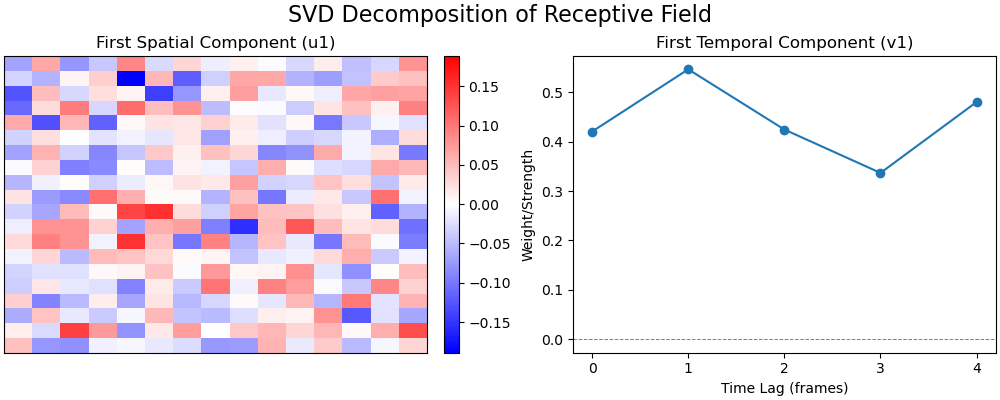
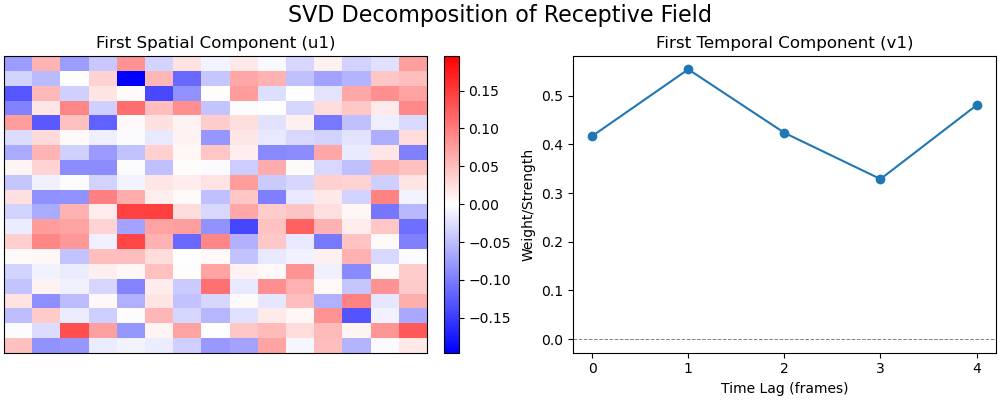
Fix up the task-4, fitting, using pyglmnet

diff --git a/notebooks/lab5.py b/notebooks/lab5.py
@@ -696,7 +696,7 @@ def fit_rf_for_lag(
         print(f"An error occurred during optimization for lag {lag_value}: {e}")
         return np.zeros(num_pixels)
 # fit for each delay
-
+dt_real = np.median(np.diff(trigger))
 w_hat = np.zeros((300, 5))  # Initialize the array to store the receptive fields
 for i, lag in enumerate(delta):
     w_hat[:, i] = fit_rf_for_lag(
@@ -704,7 +704,7 @@ for i, lag in enumerate(delta):
         full_stimulus_matrix=s,
         full_counts_vector=spike_counts_per_frame,
         num_pixels=300,  # 20 * 15 = 300
-        dt_param=0.5,  # 500 ms
+        dt_param=dt_real,  # 500 ms
         R_param=50,  # Rate parameter
         initial_w_guess=None,  # Use default small random guess
         optimizer_method='L-BFGS-B'  # Default method
@@ -831,7 +831,7 @@ ax["Temporal"].set_xlabel("Time Lag (frames)")
 ax["Temporal"].set_ylabel("Weight/Strength")
 ax["Temporal"].axhline(0, color='grey', linestyle='--', linewidth=0.7) # Add a zero line
 ax["Temporal"].set_xticks(time_lags_for_plot) # Ensure all lags are shown as ticks
-# add plot
+# Add plot
 plt.suptitle("SVD Decomposition of Receptive Field", fontsize=16)
 plt.savefig("../images/svd_rf_components.png")
 plt.show()
@@ -839,46 +839,162 @@ plt.show()
 # %% [markdown]
 # # Task 4: Regularized receptive field
 # 
-# As you can see, maximum likelihood estimation of linear receptive fields can be quite noisy, if little data is available. 
+# As you can see, maximum likelihood estimation of 
+# linear receptive fields can be quite noisy, if little data is 
+# available. 
 # 
-# To improve on this, one can regularize the receptive field vector and a term to the cost function
+# To improve on this, one can regularize the 
+# receptive field vector and a term to the cost function
 # 
 # 
 # $$
 # C(w) = L(w) + \alpha ||w||_p^2
 # $$
 # 
-# Here, the $p$ indicates which norm of $w$ is used: for $p=2$, this is shrinks all coefficient equally to zero; for $p=1$, it favors sparse solutions, a penality also known as lasso. Because the 1-norm is not smooth at zero, it is not as straightforward to implement "by hand". 
+# Here, the $p$ indicates which norm of $w$ is used: for $p=2$, this 
+# is shrinks all coefficient equally to zero; for $p=1$, it favors 
+# sparse solutions, a penality also known as lasso. 
+# Because the 1-norm is not smooth at zero, it is not as 
+# straightforward to implement "by hand". 
 # 
-# Use a toolbox with an implementation of the lasso-penalization and fit the receptive field. Possibly, you will have to try different values of the regularization parameter $\alpha$. Plot your estimates from above and the lasso-estimates. How do they differ? What happens when you increase or decrease $alpha$?
+# Use a toolbox with an implementation of the 
+# lasso-penalization and fit the receptive field. 
+#
+# Possibly, you will have to try different values of the 
+# regularization parameter $\alpha$.
+#
+# Plot your estimates from above and the lasso-estimates. 
+#
+# How do they differ? 
+#
+# What happens when you increase or decrease $alpha$?
 # 
-# If you want to keep the Poisson noise model, you can use the implementation in [`pyglmnet`](https://pypi.python.org/pypi/pyglmnet). Otherwise, you can also resort to the linear model from `sklearn` which assumes Gaussian noise (which in my hands was much faster).
+# If you want to keep the Poisson noise model, you can use the 
+# implementation in [`pyglmnet`](https://pypi.python.org/pypi/pyglmnet). Otherwise, you can also resort to the linear model from `sklearn` which assumes Gaussian noise (which in my hands was much faster).
 # 
 # *Grading: 3 pts*
 # 
 
 # %%
-from sklearn import linear_model
 
+#%%
+from pyglmnet import GLM
+
+import numpy as np
+#%%
+def fit_lasso_rf(
+    full_stimulus_matrix: np.ndarray, # Original s (num_pixels, num_total_frames)
+    full_counts_vector: np.ndarray,   # Original c_binned (num_total_frames,)
+    lag: int = 0,
+    reg_strength: float = 0.1, # This is the 'alpha' from your task's formula C(w)=L(w)+alpha*||w||_1
+    max_iter: int = 1000,
+    tol: float = 1e-4,
+    learning_rate: float = 0.01 # Added learning rate, may need tuning
+) -> np.ndarray:
+    """
+    Fit a Lasso regularized receptive field using pyglmnet for a specific lag.
+
+    Args:
+        full_stimulus_matrix (np.ndarray): Stimulus matrix (Dx * Dy, nT).
+        full_counts_vector (np.ndarray): Spike counts (nT,).
+        lag (int): Time lag to apply.
+        reg_strength (float): Regularization strength (lambda in pyglmnet).
+        max_iter (int): Maximum number of iterations for optimization.
+        tol (float): Tolerance for convergence.
+        learning_rate (float): Learning rate for the optimizer.
+
+    Returns:
+        np.ndarray: Estimated receptive field (Dx * Dy,), or zeros if fit fails.
+    """
+    num_pixels = full_stimulus_matrix.shape[0]
+    
+    if lag == 0:
+        stim_for_lag_samples = full_stimulus_matrix.T 
+        counts_for_lag = full_counts_vector          
+    else:
+        if lag >= full_stimulus_matrix.shape[1] or lag >= len(full_counts_vector):
+            print(f"Lag value {lag} is too large for data length. Returning zeros.")
+            return np.zeros(num_pixels)
+        # Stimulus at t-lag predicts spikes at t
+        stim_for_lag_samples = full_stimulus_matrix[:, :-lag].T 
+        counts_for_lag = full_counts_vector[lag:]             
+
+    if stim_for_lag_samples.shape[0] == 0:
+        print(f"Zero samples after lagging for lag {lag}. Returning zeros.")
+        return np.zeros(num_pixels)
+    if stim_for_lag_samples.shape[0] != len(counts_for_lag):
+        print(f"Mismatch in samples after lagging for lag {lag}. " \
+              f"X has {stim_for_lag_samples.shape[0]}, y has {len(counts_for_lag)}. Returning zeros.")
+        return np.zeros(num_pixels)
+
+    model = GLM(
+        distr='poisson',
+        alpha=1.0,  # This is L1_ratio, 1.0 for pure Lasso
+        reg_lambda=reg_strength, # Regularization strength
+        max_iter=max_iter,
+        tol=tol,
+        learning_rate=learning_rate,
+        verbose=True)
+
+    try:
+        print(f"Fitting Lasso for lag {lag}, reg_strength {reg_strength} with X shape {stim_for_lag_samples.shape} and y shape {counts_for_lag.shape}")
+        model.fit(stim_for_lag_samples, counts_for_lag)
+        # NEW logic to access beta_:
+        if model.beta_ is not None:
+            # For pyglmnet.GLM with a single reg_lambda, beta_ is expected to be 1D (n_features,)
+            if model.beta_.ndim == 1:
+                print(f"Fit successful for lag {lag}, reg_strength {reg_strength}. Beta shape: {model.beta_.shape}")
+                return model.beta_.flatten() # .flatten() is mostly for consistency here
+            elif model.beta_.ndim == 2 and model.beta_.shape[1] == 1:
+                # Some pyglmnet versions/forks might still wrap a single lambda result in a 2D array
+                print(f"Fit successful (beta_ is 2D) for lag {lag}, reg_strength {reg_strength}. Beta shape: {model.beta_.shape}")
+                return model.beta_[:, 0].flatten()
+            else:
+                # This case would be unexpected
+                print(f"Unexpected beta_ shape from pyglmnet.GLM: {model.beta_.shape} for lag {lag}, reg_strength {reg_strength}")
+                return np.zeros(num_pixels)
+        else:
+            # This case means fit might have run, but beta_ was not set (problematic)
+            print(f"Fit completed but model.beta_ is None for lag {lag}, reg_strength {reg_strength}.")
+            return np.zeros(num_pixels)
+    except Exception as e:
+        print(f"Error during pyglmnet fit for lag {lag}, reg_strength {reg_strength}: {e}")
+        return np.zeros(num_pixels)
+
+#%%
+
+#%%
 # ------------------------------------------
 # Fit the receptive field with time lags of
 # 0 to 4 frames separately (the same as before)
 # with sklearn or pyglmnet for different values
 # of alpha (1 pt)
 # ------------------------------------------
-
+import numpy as np
+np.float = np.float64
 delta = [0, 1, 2, 3, 4]
 alphas= []
+w_hat_lasso = np.zeros((s.shape[0], len(delta)))  # Initialize for lasso results
+for lag in delta:
+    print(f"Fitting Lasso RF for lag {lag}...")
+    # Fit the Lasso regularized receptive field
+    w_lasso = fit_lasso_rf(s, spike_counts_per_frame, lag=lag, 
+                           reg_strength=0.1, 
+                           tol=1e-2,
+                           max_iter=10000, 
+                           learning_rate=1e-4)
+    
+    # Store the result in w_hat for plotting later
+    w_hat_lasso[:, lag] = w_lasso
 
 # %%
 # ------------------------------------------
-# plot the estimated receptive fields (1 pt)
+# Plot the estimated receptive fields (1 pt)
 # ------------------------------------------
-
-
 fig, ax = plt.subplots(
     len(alphas), len(delta), figsize=(10, 4), constrained_layout=True
-)# add plot
+) # add plot
+
 
 # %% [markdown]
 # _Explanation (1 pt)_
@@ -887,9 +1003,13 @@ fig, ax = plt.subplots(
 # %% [markdown]
 # ## Bonus Task (Optional): Spike Triggered Average
 # 
-# Instead of the Maximum Likelihood implementation above, estimate the receptive field using the spike triggered average.
-# Use it to increase the temporal resolution of your receptive field estimate.
-# Perform the SVD analysis for your STA-based receptive field and plot the spatial and temporal kernel as in Task 3.
+# Instead of the Maximum Likelihood implementation above, 
+# estimate the receptive field using the spike triggered average.
+# Use it to increase the temporal resolution of your 
+# receptive field estimate.
+#
+# Perform the SVD analysis for your STA-based receptive field and 
+# plot the spatial and temporal kernel as in Task 3.
 # 
 # **Questions:**
 # 1. Explain how / why you chose a specific time delta.
@@ -898,6 +1018,10 @@ fig, ax = plt.subplots(
 # _Grading: 1 BONUS Point._
 # 
 # 
-# _BONUS Points do not count for this individual coding lab, but sum up to 5% of your **overall coding lab grade**. There are 4 BONUS points across all coding labs._
+# _BONUS Points do not count for this individual 
+# coding lab, but sum up to 5% of your **overall coding lab grade**. 
+# There are 4 BONUS points across all coding labs._
 
 
+
+# %%
